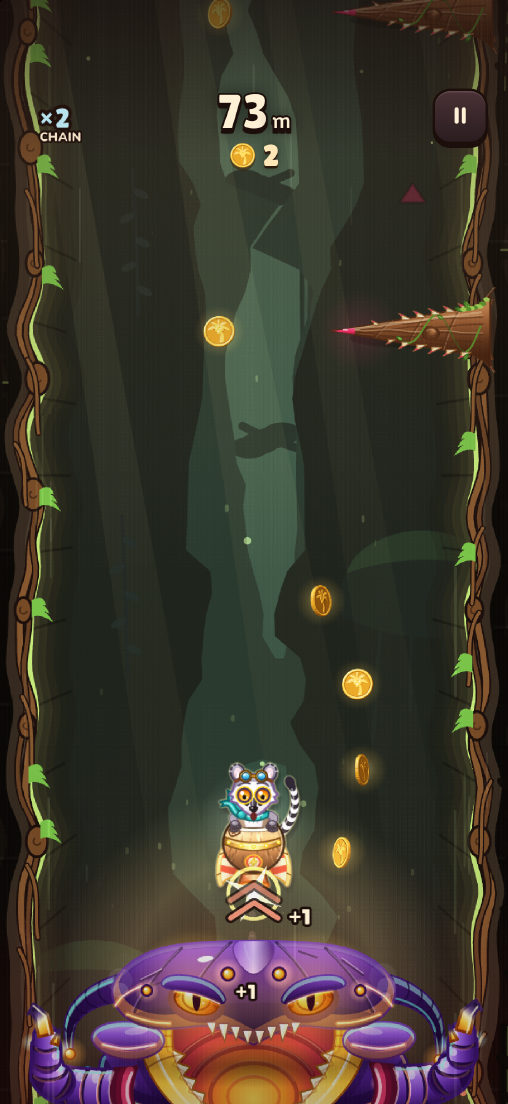
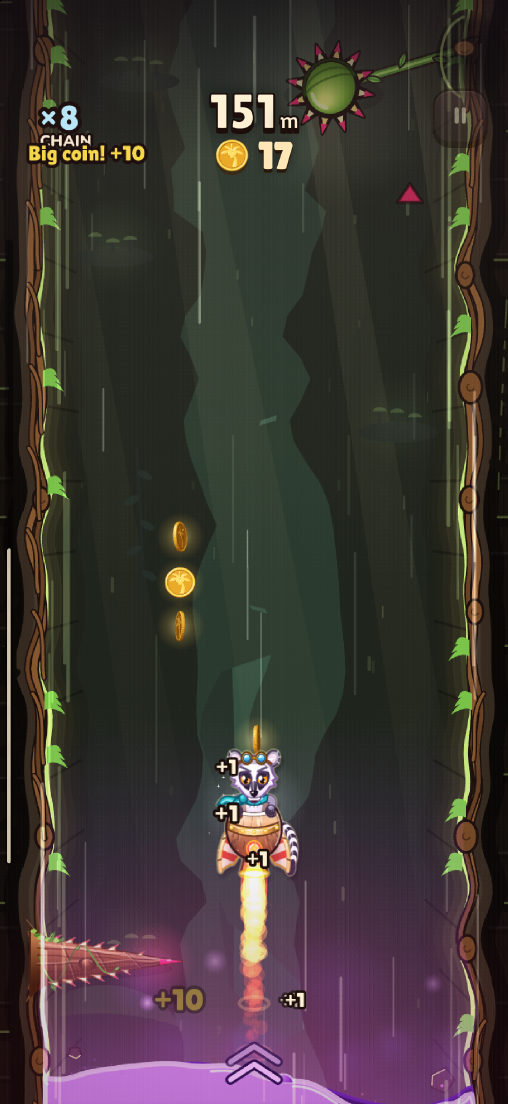
Coconut Rocket site: the poison replaces the monster
The hero's lower part is the rising poison, drawn by the game and lined
up with the jungle walls; the copy, screenshots and share image follow.

diff --git a/coconut-rocket/index.html b/coconut-rocket/index.html
@@ -4,8 +4,8 @@
   <meta charset="utf-8">
   <meta name="viewport" content="width=device-width, initial-scale=1">
   <meta name="theme-color" content="#120B10">
-  <meta name="description" content="Coconut Rocket is an endless arcade climber for iPhone. Hold to fly, slide to steer and outrun Scissorjaw, the hungry monster right behind you. A new daily level every day.">
-  <title>Coconut Rocket. Outfly the Monster Below.</title>
+  <meta name="description" content="Coconut Rocket is an endless arcade climber for iPhone. Hold to fly, slide to steer and outrun the purple poison rising right behind you. A new daily level every day.">
+  <title>Coconut Rocket. Outfly the Poison Below.</title>
   <link rel="icon" type="image/png" href="assets/favicon.png">
   <link rel="apple-touch-icon" href="assets/apple-touch-icon.png">
   <link rel="preload" href="assets/fonts/LilitaOne-Regular.ttf" as="font" type="font/ttf" crossorigin>
@@ -14,8 +14,8 @@
   <script src="script.js" defer></script>
 
   <link rel="canonical" href="https://devpulse.co.uk/coconut-rocket/">
-  <meta property="og:title" content="Coconut Rocket. Outfly the Monster Below.">
-  <meta property="og:description" content="Hold to fly, slide to steer and outrun Scissorjaw. An endless arcade climber with a new daily level every day.">
+  <meta property="og:title" content="Coconut Rocket. Outfly the Poison Below.">
+  <meta property="og:description" content="Hold to fly, slide to steer and outrun the rising poison. An endless arcade climber with a new daily level every day.">
   <meta property="og:type" content="website">
   <meta property="og:url" content="https://devpulse.co.uk/coconut-rocket/">
   <meta property="og:site_name" content="Coconut Rocket">
@@ -23,13 +23,13 @@
   <meta property="og:image" content="https://devpulse.co.uk/coconut-rocket/assets/images/social-preview.jpg">
   <meta property="og:image:width" content="1200">
   <meta property="og:image:height" content="630">
-  <meta property="og:image:alt" content="Kiko the lemur flies a coconut rocket up through the jungle, with the monster Scissorjaw close behind.">
+  <meta property="og:image:alt" content="Kiko the lemur flies a coconut rocket up through the jungle, with purple poison rising close behind.">
   <meta name="twitter:card" content="summary_large_image">
-  <meta name="twitter:title" content="Coconut Rocket. Outfly the Monster Below.">
-  <meta name="twitter:description" content="Hold to fly, slide to steer and outrun Scissorjaw. An endless arcade climber with a new daily level every day.">
+  <meta name="twitter:title" content="Coconut Rocket. Outfly the Poison Below.">
+  <meta name="twitter:description" content="Hold to fly, slide to steer and outrun the rising poison. An endless arcade climber with a new daily level every day.">
   <meta name="twitter:image" content="https://devpulse.co.uk/coconut-rocket/assets/images/social-preview.jpg">
-  <meta name="twitter:image:alt" content="Kiko the lemur flies a coconut rocket up through the jungle, with the monster Scissorjaw close behind.">
-  <script type="application/ld+json">{"@context": "https://schema.org", "@graph": [{"@type": "WebSite", "@id": "https://devpulse.co.uk/coconut-rocket/#website", "url": "https://devpulse.co.uk/coconut-rocket/", "name": "Coconut Rocket", "inLanguage": "en-GB", "publisher": {"@type": "Organization", "name": "DevPulse", "url": "https://devpulse.co.uk/"}}, {"@type": "MobileApplication", "@id": "https://devpulse.co.uk/coconut-rocket/#app", "name": "Coconut Rocket", "url": "https://devpulse.co.uk/coconut-rocket/", "description": "An endless arcade climber. Hold to fly, slide to steer and outrun the monster on your tail. A new daily level every day.", "applicationCategory": "GameApplication", "gamePlatform": "iOS", "operatingSystem": "iOS 15 or later", "image": "https://devpulse.co.uk/coconut-rocket/assets/app-icon.png", "offers": {"@type": "Offer", "price": "0", "priceCurrency": "GBP"}, "publisher": {"@type": "Organization", "name": "DevPulse", "url": "https://devpulse.co.uk/"}}]}</script>
+  <meta name="twitter:image:alt" content="Kiko the lemur flies a coconut rocket up through the jungle, with purple poison rising close behind.">
+  <script type="application/ld+json">{"@context": "https://schema.org", "@graph": [{"@type": "WebSite", "@id": "https://devpulse.co.uk/coconut-rocket/#website", "url": "https://devpulse.co.uk/coconut-rocket/", "name": "Coconut Rocket", "inLanguage": "en-GB", "publisher": {"@type": "Organization", "name": "DevPulse", "url": "https://devpulse.co.uk/"}}, {"@type": "MobileApplication", "@id": "https://devpulse.co.uk/coconut-rocket/#app", "name": "Coconut Rocket", "url": "https://devpulse.co.uk/coconut-rocket/", "description": "An endless arcade climber. Hold to fly, slide to steer and outrun the poison rising behind you. A new daily level every day.", "applicationCategory": "GameApplication", "gamePlatform": "iOS", "operatingSystem": "iOS 15 or later", "image": "https://devpulse.co.uk/coconut-rocket/assets/app-icon.png", "offers": {"@type": "Offer", "price": "0", "priceCurrency": "GBP"}, "publisher": {"@type": "Organization", "name": "DevPulse", "url": "https://devpulse.co.uk/"}}]}</script>
 </head>
 <body>
   <a class="skip-link" href="#main">Skip to content</a>
@@ -58,13 +58,13 @@
   </header>
 
   <main id="main">
-    <!-- The hero is a still moment from the game: the jungle level, Kiko hovering and Scissorjaw below. -->
+    <!-- The hero is a still moment from the game: the jungle level, Kiko hovering and the poison rising below. -->
     <section class="hero" id="top" aria-labelledby="hero-title">
       <div class="hero-ambient" aria-hidden="true"></div>
       <div class="wrap hero-grid">
         <div class="hero-copy">
           <h1 id="hero-title" class="logo" aria-label="Coconut Rocket"><span class="l1" aria-hidden="true">Coconut</span><span class="l2" aria-hidden="true">Rocket</span></h1>
-          <p class="hero-lede"><strong>Hold</strong> to fly, <strong>slide</strong> to steer and climb as high as you dare. A hungry monster is right behind you.</p>
+          <p class="hero-lede"><strong>Hold</strong> to fly, <strong>slide</strong> to steer and climb as high as you dare. A tide of purple poison is rising right behind you.</p>
           <ul class="hero-pills"><li class="chip label">Endless climber</li><li class="chip label">One thumb</li><li class="chip label">New level daily</li></ul>
           <div class="store-buttons">
             <a class="cta store-button" href="#coming-soon" data-store="App Store"><small><svg aria-hidden="true"><use href="#apple"/></svg>Coming soon to the</small><strong>App Store</strong></a>
@@ -73,8 +73,8 @@
         </div>
 
         <div class="hero-stage">
-          <div class="scene" id="scene" data-scale="fit" aria-label="Kiko the lemur hovers in a coconut rocket in the jungle, with the monster Scissorjaw waiting below." role="img">
-            <img class="monster" id="monster" src="assets/images/scissorjaw.png" alt="" style="--mw:390">
+          <div class="scene" id="scene" data-scale="fit" aria-label="Kiko the lemur hovers in a coconut rocket in the jungle, with purple poison rising below." role="img">
+            <img class="poison" id="poison" src="assets/images/poison.png" width="1170" height="1932" alt="">
             <img class="pilot" id="pilot" src="assets/images/pilot-kiko-flame-1.png" width="278" height="589" alt="" style="--pw:84">
           </div>
           <div class="stage-logo" aria-hidden="true"><p class="logo"><span class="l1">Coconut</span><span class="l2">Rocket</span></p></div>
@@ -94,9 +94,9 @@
         <h2 id="how-title">Hold. Steer. <em>Climb!</em></h2>
         <p class="lede">An endless arcade climber that fits under one thumb. Weave up a level packed with traps, coins and close calls, and never slow down.</p>
         <ol class="steps">
-          <li class="card"><span class="step-num">01</span><h3>Hold to Fly</h3><p>Press anywhere and the thrusters roar. Let go and you start to drop, straight towards the monster.</p></li>
+          <li class="card"><span class="step-num">01</span><h3>Hold to Fly</h3><p>Press anywhere and the thrusters roar. Let go and you start to drop, straight towards the poison.</p></li>
           <li class="card"><span class="step-num">02</span><h3>Slide to Steer</h3><p>Slide your thumb left and right to weave past spiked logs, swinging blades, bats, spiders and jets of fire.</p></li>
-          <li class="card"><span class="step-num">03</span><h3>Outrun Scissorjaw</h3><p>Slow down and Scissorjaw catches you. Chain coins and skim past danger to push your score higher.</p></li>
+          <li class="card"><span class="step-num">03</span><h3>Outrun the Poison</h3><p>Slow down and the poison swallows you. Chain coins and skim past danger to push your score higher.</p></li>
         </ol>
       </div>
     </section>
@@ -171,8 +171,8 @@
         <h2 id="screens-title">Bright Art. <em>Tight Squeezes.</em></h2>
       </div>
       <div class="shots" tabindex="0" aria-label="Screenshots, scroll sideways for more">
-        <figure><img src="assets/images/shot-home.jpg" width="508" height="1104" loading="lazy" alt="The home screen. Kiko hovers in the coconut rocket above Scissorjaw, with the Play button below."><figcaption>Ready for launch</figcaption></figure>
-        <figure><img src="assets/images/shot-flight.jpg" width="508" height="1104" loading="lazy" alt="Mid run at 73 metres. Kiko weaves between spiked logs and coins, with Scissorjaw just below."><figcaption>Weave through the level</figcaption></figure>
+        <figure><img src="assets/images/shot-home.jpg" width="508" height="1104" loading="lazy" alt="The home screen. Kiko hovers in the coconut rocket above the rising poison, with the Play button below."><figcaption>Ready for launch</figcaption></figure>
+        <figure><img src="assets/images/shot-flight.jpg" width="508" height="1104" loading="lazy" alt="Mid run at 151 metres. Kiko weaves between spiked logs and coins, with the poison rising below."><figcaption>Weave through the level</figcaption></figure>
         <figure><img src="assets/images/shot-score.jpg" width="508" height="1104" loading="lazy" alt="The score card after a run, with points, coins earned and missions."><figcaption>Beat your best</figcaption></figure>
         <figure><img src="assets/images/shot-shop.jpg" width="508" height="1104" loading="lazy" alt="The shop, showing characters such as Kiko the lemur, Ember the dragon and Shellby the snail."><figcaption>Collect the crew</figcaption></figure>
         <figure><img src="assets/images/shot-missions.jpg" width="508" height="1104" loading="lazy" alt="The missions sheet, with three missions and the seven day streak."><figcaption>Missions and streaks</figcaption></figure>
@@ -198,7 +198,7 @@
         <div class="card cta-card">
           <img class="cta-icon" src="assets/app-icon.png" width="120" height="120" alt="The Coconut Rocket app icon, Kiko the lemur in flying goggles.">
           <h2 id="get-title">How High Can You <em>Climb?</em></h2>
-          <p>A fresh daily level is waiting. So is Scissorjaw.</p>
+          <p>A fresh daily level is waiting. So is the poison.</p>
           <div class="store-buttons">
             <a class="cta store-button" href="#coming-soon" data-store="App Store"><small><svg aria-hidden="true"><use href="#apple"/></svg>Coming soon to the</small><strong>App Store</strong></a>
             <a class="cta gold store-button" href="#coming-soon" data-store="Google Play"><small><svg aria-hidden="true"><use href="#play"/></svg>Coming soon to</small><strong>Google Play</strong></a>
@@ -211,7 +211,7 @@
   <footer class="site-footer">
     <div class="wrap footer-row">
       <a class="brand" href="#top" aria-label="Coconut Rocket home"><img src="assets/app-icon.png" width="42" height="42" alt=""><span>Coconut Rocket</span></a>
-      <p>Hold to fly. Outrun the monster. Made in the UK.</p>
+      <p>Hold to fly. Outrun the poison. Made in the UK.</p>
       <div class="footer-links"><a href="privacy/">Privacy</a><a href="support/">Support</a><a href="https://devpulse.co.uk/">Made by DevPulse</a><button class="footer-link" type="button" data-open-credits>Font credits</button></div>
     </div>
   </footer>

diff --git a/apps/index.html b/apps/index.html
@@ -1146,11 +1146,11 @@
           <div>
             <p class="cr-label">Made by Devpulse. Coming soon to iPhone and Android.</p>
             <h3 class="cr-brand"><img src="../coconut-rocket/assets/app-icon.png" width="52" height="52" alt=""><span class="cr-word"><span class="co">Coconut</span> Rocket</span></h3>
-            <p>Hold to fly, slide to steer and climb as high as you dare, with Scissorjaw, a very hungry monster, right behind you. An endless arcade climber through jungle, caves and magma, with a new daily level every day and a whole crew of pilots and rockets to collect.</p>
+            <p>Hold to fly, slide to steer and climb as high as you dare, with a tide of purple poison rising right behind you. An endless arcade climber through jungle, caves and magma, with a new daily level every day and a whole crew of pilots and rockets to collect.</p>
             <a class="cr-link" href="../coconut-rocket/">Explore Coconut Rocket <svg class="twin-arrow" viewBox="0 0 24 24" aria-hidden="true"><path d="M7 17 17 7M9 7h8v8" fill="none" stroke="currentColor" stroke-width="2.6" stroke-linecap="round" stroke-linejoin="round"/></svg></a>
           </div>
           <div class="cr-art">
-            <img class="shot" src="../coconut-rocket/assets/images/shot-flight.jpg" width="508" height="1104" loading="lazy" alt="Coconut Rocket mid run. Kiko the lemur weaves between spiked logs and coins, with the monster Scissorjaw below.">
+            <img class="shot" src="../coconut-rocket/assets/images/shot-flight.jpg" width="508" height="1104" loading="lazy" alt="Coconut Rocket mid run. Kiko the lemur weaves between spiked logs and coins, with the poison rising below.">
             <img class="shot" src="../coconut-rocket/assets/images/shot-shop.jpg" width="508" height="1104" loading="lazy" alt="The Coconut Rocket shop, with characters to collect.">
             <img class="cr-pilot" src="../coconut-rocket/assets/images/pilot-kiko-flame-1.png" width="278" height="589" alt="">
           </div>

diff --git a/coconut-rocket/support/index.html b/coconut-rocket/support/index.html
@@ -51,7 +51,7 @@
           <p>Or write to <a href="mailto:support@devpulse.co.uk?subject=Coconut%20Rocket">support@devpulse.co.uk</a>.</p>
 
           <h2>How do I play?</h2>
-          <p>Hold anywhere on the screen to fire the thrusters and fly up, and slide your thumb to steer. Let go and you drop. Weave past the traps in the level and grab coins on the way. Slow down too much and Scissorjaw, the monster below, catches you.</p>
+          <p>Hold anywhere on the screen to fire the thrusters and fly up, and slide your thumb to steer. Let go and you drop. Weave past the traps in the level and grab coins on the way. Slow down too much and the poison rising below swallows you.</p>
 
           <h2>Can I change the controls?</h2>
           <p>Yes. Tap the gear on the home screen and pick one of three.</p>
@@ -96,7 +96,7 @@
   <footer class="site-footer">
     <div class="wrap footer-row">
       <a class="brand" href="../" aria-label="Coconut Rocket home"><img src="../assets/app-icon.png" width="42" height="42" alt=""><span>Coconut Rocket</span></a>
-      <p>Hold to fly. Outrun the monster. Made in the UK.</p>
+      <p>Hold to fly. Outrun the poison. Made in the UK.</p>
       <div class="footer-links"><a href="../privacy/">Privacy</a><a href="../support/">Support</a><a href="https://devpulse.co.uk/">Made by DevPulse</a><button class="footer-link" type="button" data-open-credits>Font credits</button></div>
     </div>
   </footer>

diff --git a/coconut-rocket/styles.css b/coconut-rocket/styles.css
@@ -104,7 +104,7 @@ h3 { font-size: 24px; margin-bottom: 6px; color: var(--cream); text-shadow: 0 2p
   background: linear-gradient(to bottom, rgba(14, 8, 10, .5) 0, rgba(14, 8, 10, 0) 22%, rgba(14, 8, 10, 0) 70%, rgba(18, 8, 6, .55) 100%), radial-gradient(120% 60% at 50% 46%, rgba(0, 0, 0, 0) 55%, rgba(8, 4, 6, .35) 100%); }
 .scene > * { position: absolute; pointer-events: none; }
 .pilot { z-index: 2; left: 0; top: 0; width: calc(var(--pw) * 1px * var(--s)); height: auto; translate: -50% -29.6%; transform: translate(calc(195px * var(--s)), calc(420px * var(--s))); will-change: transform; filter: drop-shadow(0 calc(6px * var(--s)) calc(8px * var(--s)) rgba(0, 0, 0, .25)); }
-.monster { z-index: 3; left: 50%; bottom: calc(-280px * var(--s)); width: calc(var(--mw) * 1px * var(--s)); height: auto; translate: -50% 0; will-change: transform; }
+.poison { z-index: 3; left: 0; bottom: calc(-8px * var(--s)); width: 100%; height: auto; will-change: transform; }
 /* A coin is one cell of the game's coin sheet; script.js steps through its frames. */
 .coin { z-index: 1; left: 0; top: 0; width: calc(34px * var(--s)); height: calc(34px * var(--s)); translate: -50% -50%; background: var(--coin-img) 0 0 no-repeat; will-change: transform; }
 .coin.got { animation: coinGot .35s ease-out forwards; }

diff --git a/coconut-rocket/script.js b/coconut-rocket/script.js
@@ -94,7 +94,7 @@ if (scene) {
   // Kiko hovers as on the home screen, with the game's four flame frames swapped in turn. The scene is only a
   // picture: nothing on it responds to taps or the pointer.
   const pilot = scene.querySelector('#pilot');
-  const monster = scene.querySelector('#monster');
+  const poison = scene.querySelector('#poison');
   const flames = [1, 2, 3, 4].map(n => {
     const img = new Image();
     img.src = `/coconut-rocket/assets/images/pilot-kiko-flame-${n}.png`;
@@ -126,7 +126,7 @@ if (scene) {
       const y = HOME_Y + Math.sin(time * 1.7) * 10;
       const tilt = Math.cos(time * 0.6) * 0.05;
       pilot.style.transform = `translate(${(x * scale).toFixed(1)}px, ${(y * scale).toFixed(1)}px) rotate(${tilt.toFixed(3)}rad)`;
-      monster.style.transform = `translateY(${(Math.sin(time * 2.2) * 5 * scale).toFixed(1)}px)`;
+      poison.style.transform = `translateY(${(Math.sin(time * 1.3) * 4 * scale).toFixed(1)}px)`;
     }
     requestAnimationFrame(frame);
   }

diff --git a/coconut-rocket/privacy/index.html b/coconut-rocket/privacy/index.html
@@ -125,7 +125,7 @@
   <footer class="site-footer">
     <div class="wrap footer-row">
       <a class="brand" href="../" aria-label="Coconut Rocket home"><img src="../assets/app-icon.png" width="42" height="42" alt=""><span>Coconut Rocket</span></a>
-      <p>Hold to fly. Outrun the monster. Made in the UK.</p>
+      <p>Hold to fly. Outrun the poison. Made in the UK.</p>
       <div class="footer-links"><a href="../privacy/">Privacy</a><a href="../support/">Support</a><a href="https://devpulse.co.uk/">Made by DevPulse</a><button class="footer-link" type="button" data-open-credits>Font credits</button></div>
     </div>
   </footer>

diff --git a/coconut-rocket/README.md b/coconut-rocket/README.md
@@ -6,9 +6,9 @@ no trackers, cookies or analytics). GitHub Pages serves each folder's `index.htm
 
 | Path | What |
 |---|---|
-| `index.html`, `styles.css`, `script.js` | The page. The hero is a jungle level at game scale (390 x 844 game px, `--s` sets the scale) with Kiko hovering, coins drifting and Scissorjaw below. It is a picture, not playable: the owner does not want the game playable on the site. Phones get a full-bleed copy of the home screen, desktops a framed phone beside the copy. |
+| `index.html`, `styles.css`, `script.js` | The page. The hero is a jungle level at game scale (390 x 844 game px, `--s` sets the scale) with Kiko hovering, coins drifting and the poison rising below. It is a picture, not playable: the owner does not want the game playable on the site. Phones get a full-bleed copy of the home screen, desktops a framed phone beside the copy. |
 | `privacy/`, `support/` | The privacy policy and the support page, in the same design. The plain text draft of the policy lives in `docs/store/privacy-policy.md` in the CoconutRocket repo; keep the two in step. |
-| `assets/images/` | Art drawn by the game itself: Kiko (still and four flame frames), eight crew pilots, Scissorjaw, the three zones, the coin sheet, store screenshots and the social preview. |
+| `assets/images/` | Art drawn by the game itself: Kiko (still and four flame frames), eight crew pilots, the poison (lined up with the jungle zone walls) and its portrait, the three zones, the coin sheet, store screenshots and the social preview. |
 | `assets/fonts/`, `assets/licences/` | Lilita One and Nunito (SIL OFL 1.1), as in the game. |
 
 ## Regenerating the art
